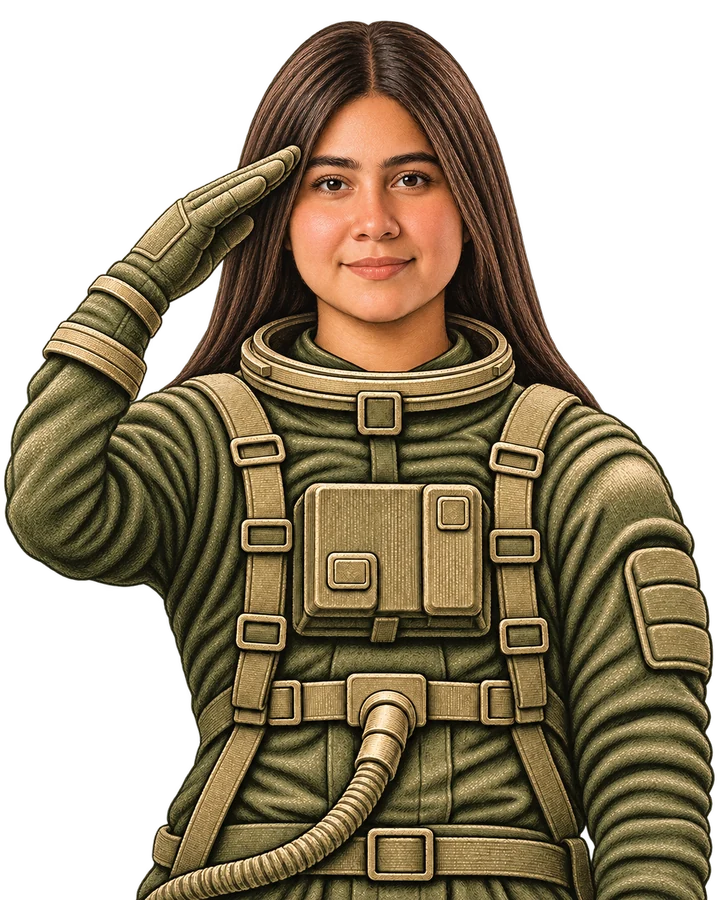
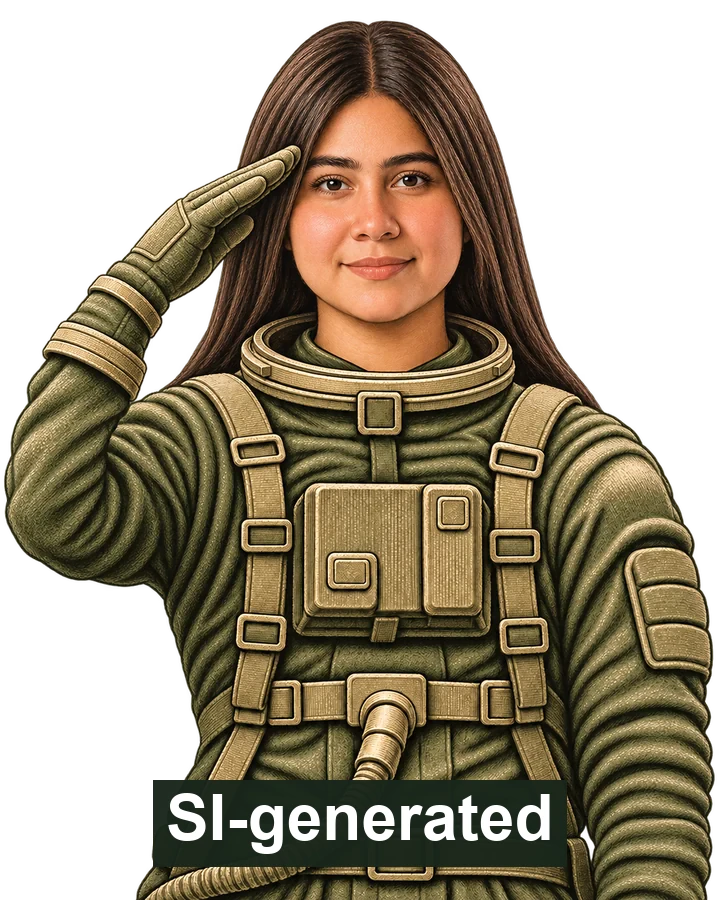
Disclose SI use in Light&Link

Changed region(s): [[0.2139, 0.84, 0.7944, 0.9644]]

diff --git a/public/si-disclosure.html b/public/si-disclosure.html
@@ -1,0 +1,20 @@
+<!doctype html>
+<html lang="en">
+  <head>
+    <meta charset="utf-8" />
+    <meta name="viewport" content="width=device-width, initial-scale=1" />
+    <title>SI disclosure | Light&amp;Link</title>
+    <link rel="describedby" href="./si-provenance.json" type="application/json" />
+  </head>
+  <body>
+    <main>
+      <h1>Use of Super Intelligence (SI)</h1>
+      <p><strong>Images.</strong> OpenAI ImageGen generated the start-screen illustration, floating astronaut and Alba portraits. Each image carries an “SI-generated” watermark.</p>
+      <p><strong>Video.</strong> The opening animation uses the team-supplied Light&amp;Link logo. Its original production method is undocumented.</p>
+      <p><strong>Audio.</strong> HeyGen Voice generated Alba’s narration using Cassidy. The score comes from the HeyGen generated music catalog. The two cues come from HeyGen’s sound-effects catalog, which did not specify their production method.</p>
+      <p><strong>Code.</strong> OpenAI Codex assisted with generating, editing, debugging and verifying project code, including the Explorer introduction and narration playback.</p>
+      <p><strong>Data.</strong> SI-assisted code computes synthetic demo values for testing. Scientific terrain and ephemerides come from LOLA and JPL Horizons, with source and processing metadata in the packaged site files.</p>
+      <p><a href="./si-provenance.json">Machine-readable provenance</a> · <a href="./">Back to Light&amp;Link</a></p>
+    </main>
+  </body>
+</html>

diff --git a/index.html b/index.html
@@ -4,6 +4,7 @@
     <meta charset="UTF-8" />
     <meta name="viewport" content="width=device-width, initial-scale=1.0" />
     <meta name="theme-color" content="#141e12" />
+    <link rel="describedby" href="/si-provenance.json" type="application/json" />
     <title>Light&amp;Link</title>
   </head>
   <body>
@@ -25,6 +26,7 @@
         <button class="start-menu__action" id="start-action" type="button" aria-haspopup="dialog">Start</button>
         <div class="start-menu__footer">
           <a class="start-menu__exit" href="https://www.lightlink.club/">Exit</a>
+          <a class="start-menu__exit" href="/si-disclosure.html">SI-generated artwork</a>
           <p class="start-menu__error" id="start-error" role="alert" hidden></p>
           <noscript>Enable JavaScript to open the lunar scene.</noscript>
         </div>

diff --git a/demo/ui/ExplorerStoryMode.tsx b/demo/ui/ExplorerStoryMode.tsx
@@ -57,6 +57,7 @@ export class ExplorerStoryMode {
       el('div', { class: 'flight-panel story__panel' },
         el('header', { class: 'story__head' }, el('span', { class: 'story__speaker' }, 'Alba'),
           el('div', { class: 'story__audio-controls' }, this.sound, this.replay)),
+        el('a', { class: 'story__ai-credit', href: `${import.meta.env.BASE_URL}si-disclosure.html`, target: '_blank', rel: 'noopener' }, 'SI-generated voice and artwork'),
         this.label, this.title, this.copy, this.content, this.feedback, this.cursor, this.actions, this.voiceStatus));
     this.sound.addEventListener('click', () => {
       this.audio.setEnabled(!this.audio.enabled);

diff --git a/demo/ui/flight.css b/demo/ui/flight.css
@@ -154,6 +154,7 @@
 .story__audio[aria-pressed="true"], .story__audio:hover:not(:disabled) { color: var(--flight-accent); }
 .story__audio:focus-visible { outline: 2px solid var(--flight-accent); outline-offset: -2px; }
 .story__audio:disabled { opacity: .55; cursor: default; }
+.story__ai-credit { display: inline-block; margin-bottom: 8px; color: var(--flight-copy); font-size: .73rem; }
 .story h2:focus { outline: none; }
 .story__progress { margin: 0 0 4px; color: var(--flight-accent); font-size: .73rem; font-weight: 650; }
 .story__copy, .story__feedback { font-size: clamp(.84rem, 1.4vw, 1rem); line-height: 1.5; margin: 9px 0 0; }

diff --git a/public/art/PROVENANCE.md b/public/art/PROVENANCE.md
@@ -1,4 +1,4 @@
-The start screen backdrop and the astronaut were made with built-in ImageGen. The WebP astronaut preserves alpha. The user's attached Light&Link reference informed the first illustration, from which both shipped assets were derived.
+The start screen backdrop and the astronaut were made with built-in ImageGen and carry a visible “SI-generated” watermark. The WebP astronaut preserves alpha. The user's attached Light&Link reference informed the first illustration, from which both shipped assets were derived.
 
 `start-logo.mp4` comes from the user-supplied `Light & link animacion logo.mp4`. The app version crops the surrounding black space and trims the initial black frames for inline playback on the start screen. `start-logo-still.webp` is the final frame with the black background removed into an alpha channel.
 
@@ -12,4 +12,4 @@ Extract the single astronaut from the supplied source illustration into a standa
 
 ## Explorer guide portraits
 
-Alba’s welcome and salute portraits use the user-supplied `IMG_6452.PNG` as the likeness reference. ImageGen used the previous Explorer dialogue portrait for the olive suit, brass fittings, chest pack and engraved treatment. The welcome portrait served as the costume and framing reference for the salute. Both waist-up portraits preserve the generated alpha channel.
+Alba’s welcome and salute portraits use the user-supplied `IMG_6452.PNG` as the likeness reference. ImageGen used the previous Explorer dialogue portrait for the olive suit, brass fittings, chest pack and engraved treatment. The welcome portrait served as the costume and framing reference for the salute. Both waist-up portraits preserve the generated alpha channel and carry a visible “SI-generated” watermark.

diff --git a/README.md b/README.md
@@ -1,3 +1,9 @@
+## Uso de superinteligencia (SI)
+
+OpenAI Codex asistió en la generación, edición y depuración de código del proyecto. ImageGen generó las ilustraciones de inicio y los retratos de Alba. HeyGen Voice generó la narración de Alba y la música procede del catálogo de música generada de HeyGen.
+
+Los datos de prueba sintéticos se identifican como tales. Los mapas de elevación, las máscaras de horizonte y las efemérides empaquetadas proceden de fuentes científicas identificadas en los datos y se preparan mediante cálculos deterministas. El manifiesto documenta la función de SI en cada caso. [Declaración del proyecto](public/si-disclosure.html) · [Metadatos de procedencia](public/si-provenance.json)
+
 ## Backend remoto
 
 ### Despliegue en Vercel

diff --git a/public/audio/PROVENANCE.md b/public/audio/PROVENANCE.md
@@ -1,5 +1,7 @@
 # Explorer audio sources
 
+The narration and score are SI-generated. The MP3 comment field identifies each source and records whether its generation method is known.
+
 - **lunar-orbit.mp3** comes from the HeyGen Music catalog. The source is Astral Generated Music, track ID `7c9d12c8b9f14e8a99a4bf0d7e64b964`. Encoded to MP3 with short fades at the loop boundary.
 - **transmission.mp3** comes from the HeyGen sound-effects catalog. The source is Digital notification chime, track ID `fd8d6893299c363d`.
 - **confirmed.mp3** comes from the HeyGen sound-effects catalog. The source is Ascending UI Chime, track ID `35aab3e8b2be2a98`.
